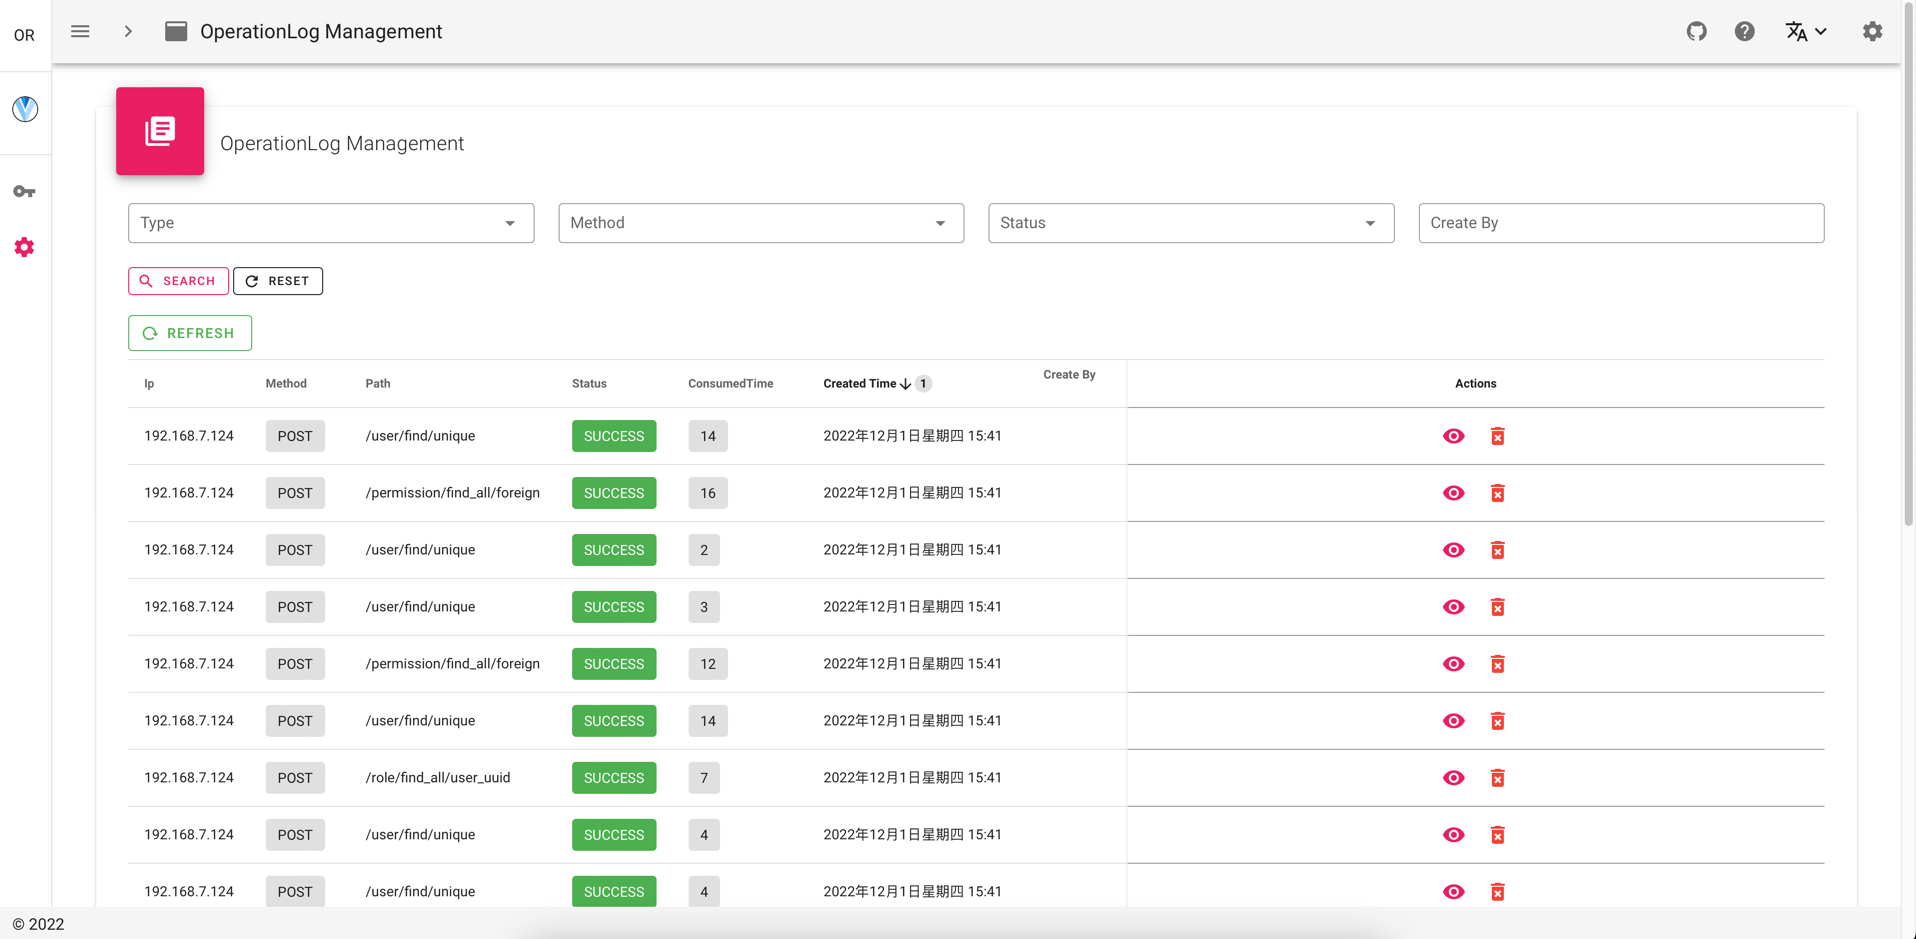
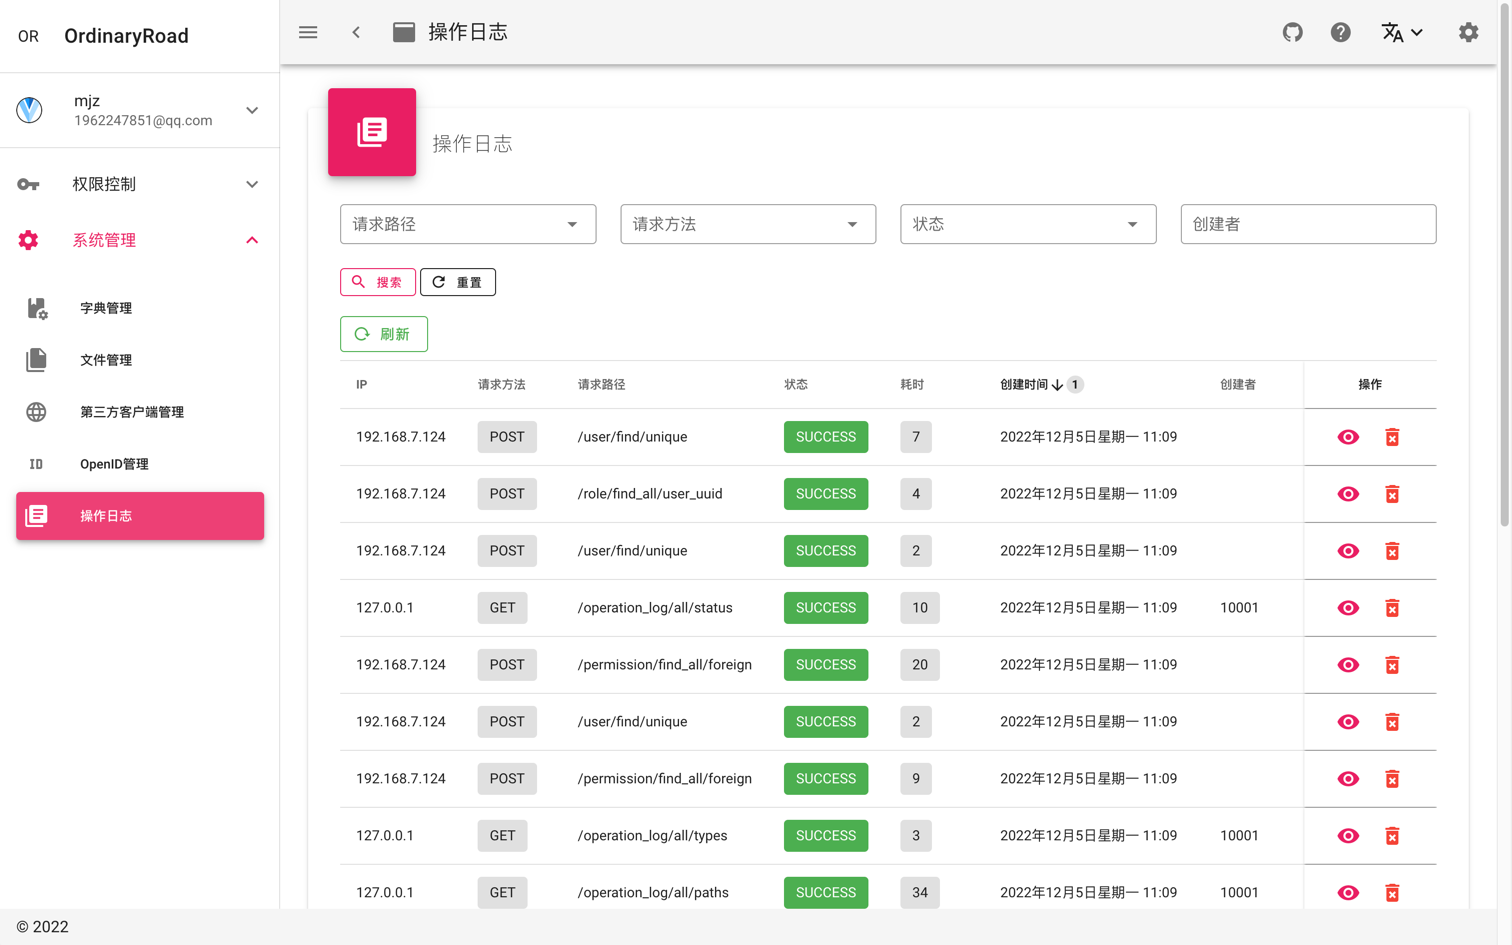
docs

diff --git a/ordinaryroad-docs/docs/others/changelog/README.md b/ordinaryroad-docs/docs/others/changelog/README.md
@@ -2,7 +2,14 @@
 
 [GitHub Releases](https://github.com/1962247851/ordinaryroad/releases)
 
-### 2022-12-01 v1.4.0
+### 2022-12-05 v1.5.1
+
+- feat(操作日志): 搜索条件增加请求路径
+- refactor: no facade
+
+---
+
+### 2022-12-01 v1.5.0
 
 - feat: 增加操作日志功能
 - feat: DO类增加updatable = false注解

diff --git a/ordinaryroad-docs/docs/commons/log/README.md b/ordinaryroad-docs/docs/commons/log/README.md
@@ -1,5 +1,7 @@
 # 日志模块
 
+[//]: # (TODO 更新图片)
+
 ![1.png](./img/1.png)
 
 ![2.png](./img/2.png)
